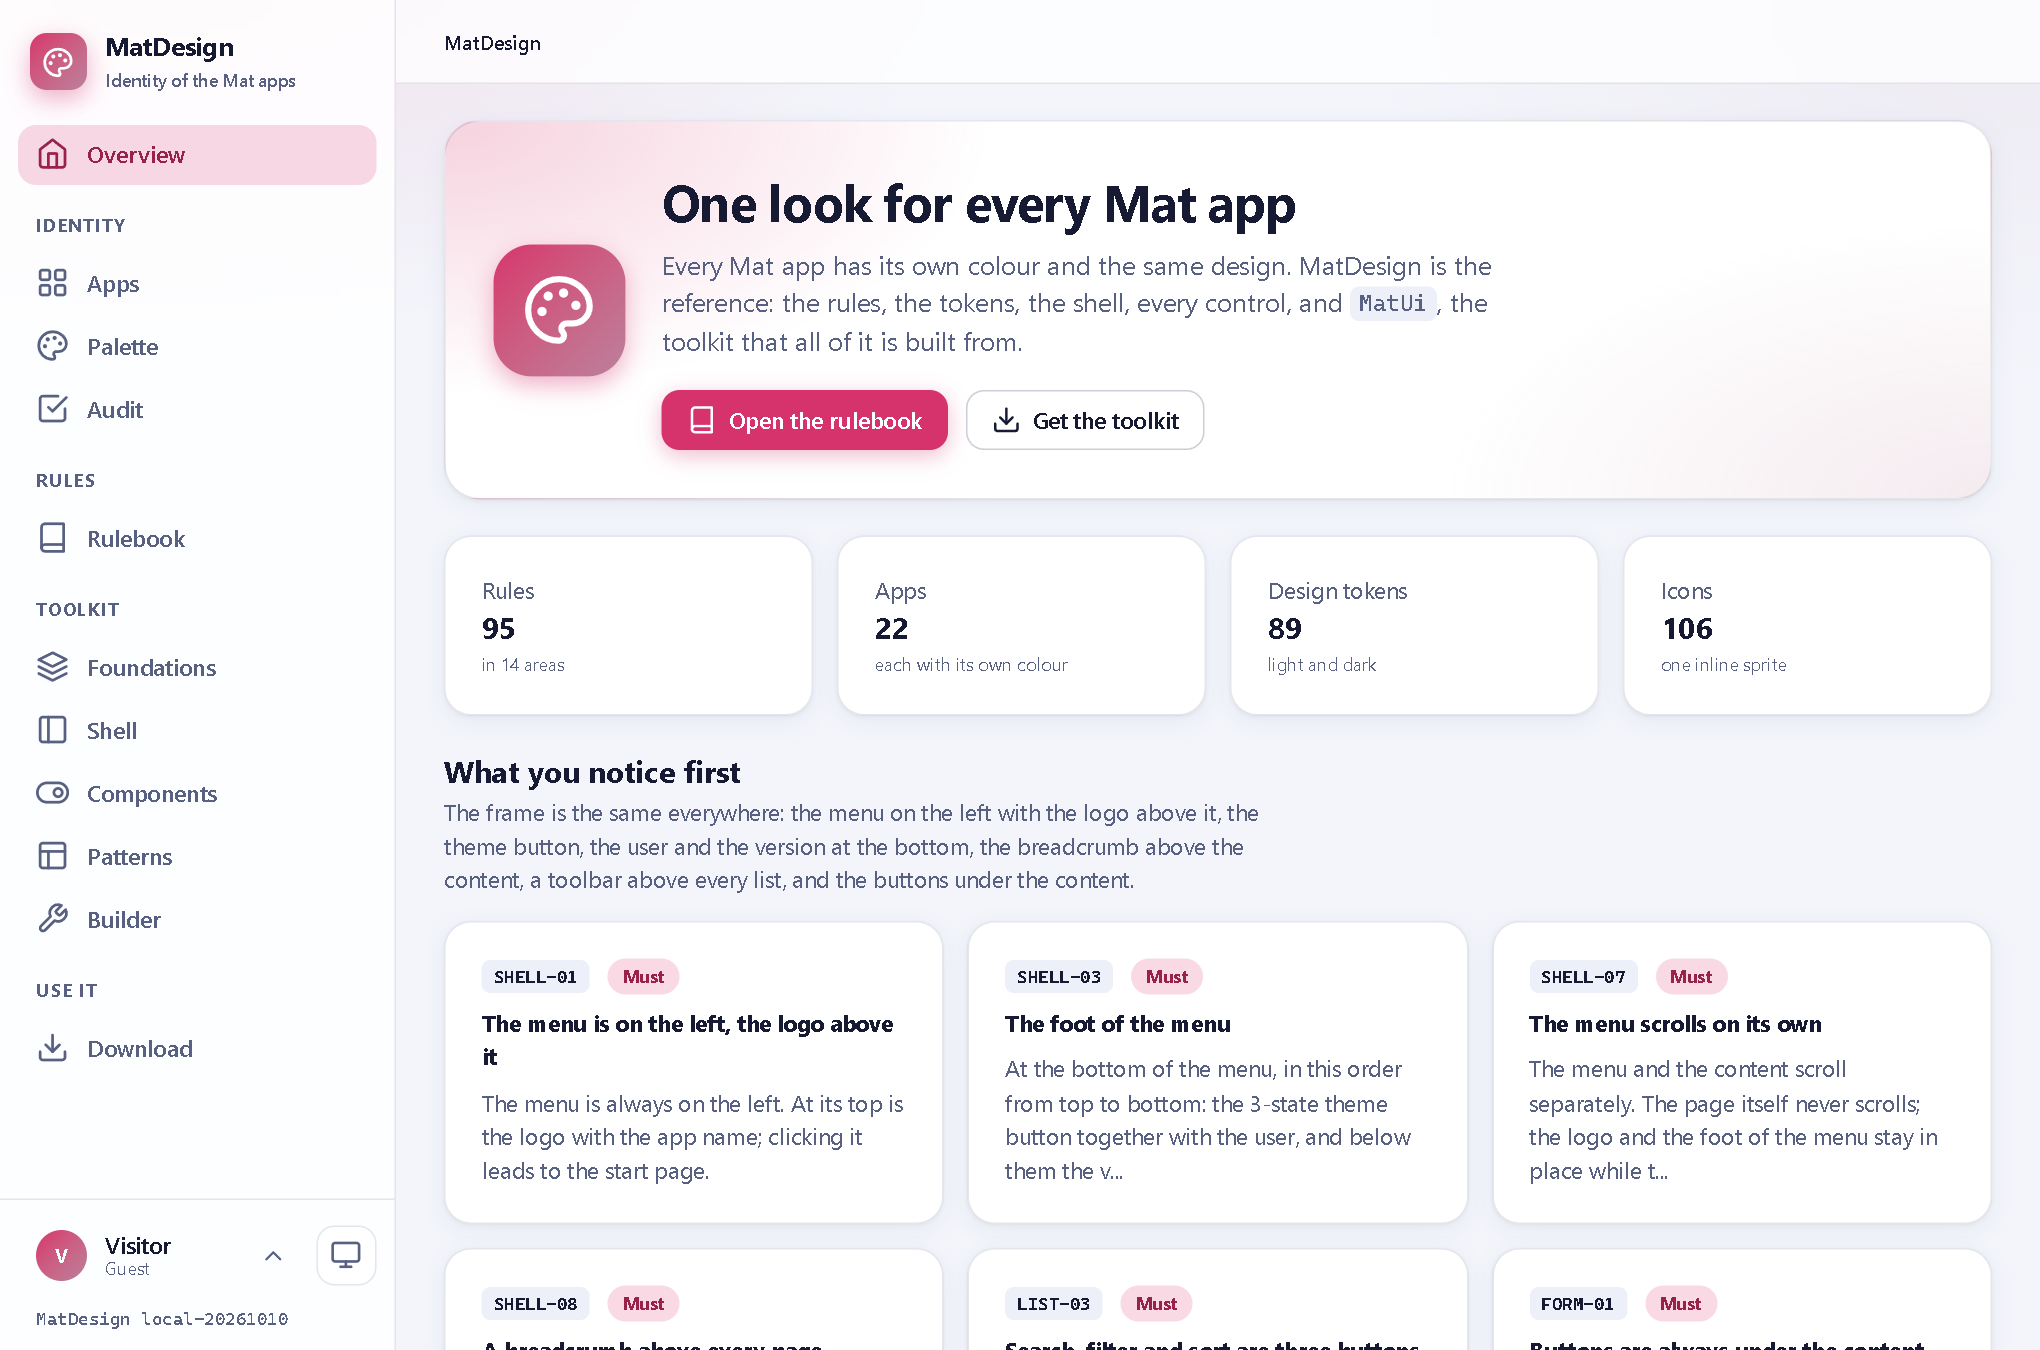
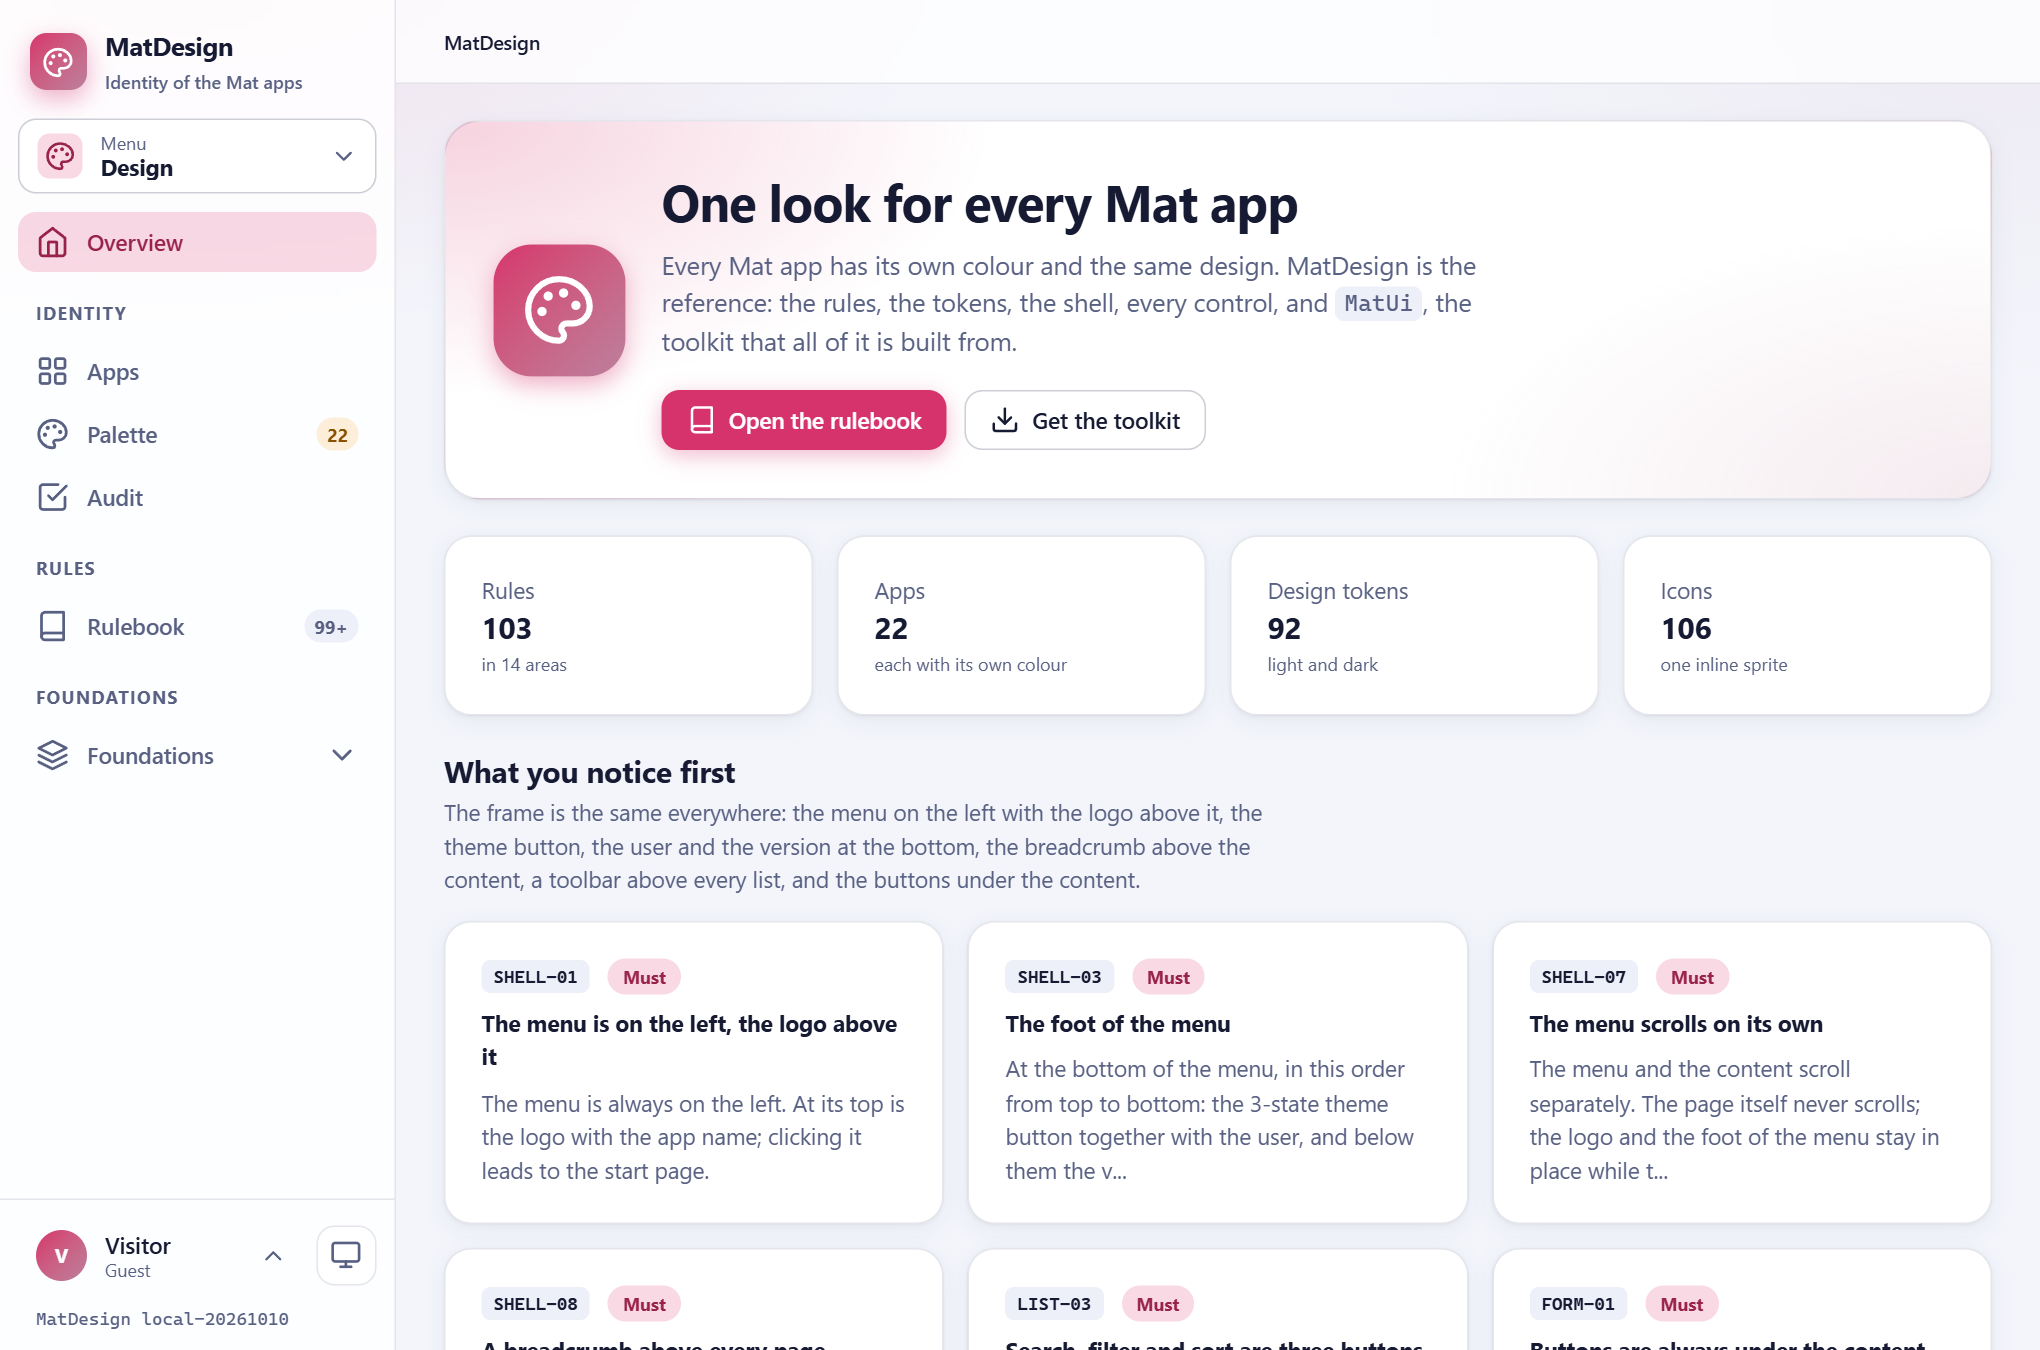
Document the framework: pickers, layout, utilities, what is left out on purpose
README, CLAUDE.md, the architecture notes and the adoption guide describe the ten stylesheet parts, the pickers (and how
the MatCMS select and date pickers map onto them), the layout system and the utilities, and list what a general kit has
and this one deliberately does not (navbar, carousel, hero, a separate off-canvas, Sass theming). A script that merges
text into a file must use a replacer function: in a plain replacement string $$ becomes $.

The overview lists Layout and Utilities; new screenshots of the period picker, the colour picker, a picker on a phone and
the grid.

diff --git a/CLAUDE.md b/CLAUDE.md
@@ -25,7 +25,8 @@ Read [docs/ARCHITECTURE.md](docs/ARCHITECTURE.md) before changing the design and
 - **Release stack:** `docker-compose.yml`, image `ghcr.io/real-ttx/matdesign`, one service, no volume: keep it that simple.
 - **Real tests are end to end against the container:** Playwright with the installed Edge (see the `screenshots` skill), then look at the screenshot instead of trusting
   computed styles. `MSYS_NO_PATHCONV=1` for Git Bash arguments that start with `/`. Shell strings with backticks, apostrophes or `$$` get mangled: write files with
-  the editor tools, not with `node -e` or heredocs.
+  the editor tools, not with `node -e` or heredocs. A script that merges text into a file must use a replacer function (`text.replace(a, () => b)`): in a plain replacement string
+  `$$` becomes `$` (it turned `$$(...)` of the script into `$(...)` once).
 - **Icon sprite:** `node tools/icons.js` rebuilds `src/MatUi/wwwroot/img/matui-icons.svg` from `tools/icons.base.json` plus the extras in the script (CI fails when it is stale).
 - **Audit:** `node tools/audit.js [folder with the repositories]` rewrites `src/MatDesign.Web/Data/audit.json`, a snapshot of how close the other apps are to the rules.
 
@@ -43,10 +44,11 @@ src/MatDesign.Core         no web types
 src/MatDesign.Web          the site
   Program.cs                 /ui/* (the toolkit as files, bundle, archive), /api/*, /health, Razor Pages
   Services/                  ToolkitFiles, Ui (icons, logo, swatch), ShellModel, Navigation, Crumbs, ListModels (toolbar, pager, query),
-                             ComponentCatalog (+ FormComponents), PatternCatalog, ShellSkeleton, AuditData (Navigation: NavSet > NavGroup > NavItem with NavBadge and children)
-  Pages/                     Index, Rules, Identity, Foundations, Shell, Components, Patterns, Builder, Download, Preview (the sample app)
+                             ComponentCatalog (+ FormComponents, PickerComponents, ContentComponents, LayoutComponents; CatalogSection = what a page shows),
+                             PatternCatalog, ShellSkeleton, AuditData (Navigation: NavSet > NavGroup > NavItem with NavBadge and children)
+  Pages/                     Index, Rules, Identity, Foundations, Shell, Components, Layout, Utilities, Patterns, Builder, Download, Preview (the sample app)
   Pages/Shared/              _Layout (the shell), _Bare (no menu), _Menu (switcher, items, badges, submenus), _MenuSwitchPopup, _Head, _Toolbar, _Pager,
-                             _Toc + _Component (the components page), _AccentSwatches, _ContrastCard, _FoundationsTabs
+                             _DocSection + _Toc + _Component (the components, layout and utilities pages), _AccentSwatches, _ContrastCard, _FoundationsTabs
   wwwroot/css/site.css       the few documentation-only styles (doc-*); wwwroot/js/doc.js the "Try it" buttons
 tests/MatDesign.Tests      unit tests + the site in memory
 tests/e2e                  run.js: the behaviour in a real browser against a running site
@@ -68,6 +70,11 @@ checks it in one commit. Rule text that cites another rule must cite one that ex
 - The dark set is written twice (`:root[data-theme="dark"]` and the system media query) and the two must stay identical. `data-app` and `data-theme` belong on `<html>`.
 - Order inside a button row, a list block and the toolbar is enforced by CSS (`order`), not by the author. A selector in a later part must be more specific than a base class it
   overrides (the bundle puts `controls` after `shell`).
+- Pickers (`FORM-15`): a wrapper `mat-picker[data-picker="select|date|daterange|time|timerange|colour"]` around the real input `mat-picker__input`, which posts one value in a fixed
+  format (`2026-10-10`, `..` for a range, `09:30`, `#b4235f`); the script adds the button and the panel (`position: fixed`, full screen with an X on a phone). Texts in English and German
+  (`PK_TEXT`: both languages must have every key, a test checks). A hidden element that has a `display` in the CSS needs its own `[hidden]` rule (tests list them).
+- Layout and utilities: mobile first with `sm` 600, `md` 900, `lg` 1200 px; no `!important`; values from the tokens; the grid spans by `grid-column-end`. An example in the catalogue uses
+  toolkit classes only, never `doc-*` (it is copied into other apps).
 - Icons come from the sprite (`Ui.Icon("name")` / `#mat-i-name`); a name that is not in the sprite fails a test. No emoji, no icon font, no CDN.
 - Nothing is loaded from another site; apps copy the toolkit (`CODE-03`).
 
@@ -76,7 +83,8 @@ checks it in one commit. Rule text that cites another rule must cite one that ex
   its three dialogs. A page that is not a list of items (a few fixed facts) needs no toolbar (see `LIST-02`).
 - A list: toolbar, table or gallery, pager directly under it, actions below left-aligned. CRUD = list + separate page. Buttons under the content, positive to negative.
 - Components and patterns are **data** (`ComponentCatalog`, `PatternCatalog`): add an entry, not a page. An example is a raw string: it is rendered live and shown as source from
-  the same string; the tests parse all of them (classes that exist, icons that exist, `data-label` on every `td`, typed buttons, unique ids, balanced tags).
+  the same string; the tests parse all of them (classes that exist, icons that exist, `data-label` on every `td`, typed buttons, unique ids, balanced tags). The layout classes and the
+  utilities are documented the same way (the groups Layout and Utilities); a `CatalogSection` decides which page shows which groups, so a new group needs a section.
 - Numbers and dates use the invariant culture (the site is English; a developer PC and a container must show the same text).
 - **Mobile matters:** check 390 px for every new page; secondary table columns get `mat-hide-sm`; on a phone dialogs are full screen with the X at the top right.
 - After a change to CSS, JS or cshtml the container must be rebuilt.

diff --git a/docs/ARCHITECTURE.md b/docs/ARCHITECTURE.md
@@ -61,10 +61,38 @@ validation summary. The catalogue of the form components is its own file (`FormC
 forms read like a manual). The script adds only what CSS cannot do: the filled part and the output of a range, a counter, the eye of a password, the names in a drop zone, an indeterminate check and the
 summary of the errors of a form; validation itself stays the browser's (`required`, `type`, `pattern`) with the messages of `data-msg-*`.
 
-### Long pages and one page for the components
+### Pickers
+
+A picker is a field whose value is chosen in a panel: a select with pictures, descriptions and tags, a date or a period, a time or a time range, a colour (`FORM-15`). They are a part of their own
+(`matui.pickers.css`) and one section of `matui.js`; the select and the calendar were taken over from MatCMS, the time and the colour were made in the same style. The markup is a wrapper
+`mat-picker[data-picker]` around the real input (`mat-picker__input`), which is what is validated, posted and reset. It holds the value in a **fixed format** (`2026-10-10`,
+`2026-10-10..2026-10-14~2`, `09:30`, `09:00..17:30`, `#b4235f`, the keys of the options), whatever the language of the page; the script adds the button that shows it in the language of the
+page (`Intl`) and the panel. The panel is `position: fixed` next to the button (below, above, or covering it when neither side has room) and full screen with an X on a phone, like every dialog.
+It lives inside the wrapper, so a picker in a dialog is not cut off by it, and Escape closes the picker first and the dialog second. The real input is invisible but lies over the button, so a
+browser message points at the right place, and whoever focuses it (a label, the validation) lands on the button. The texts are English and German (`data-pk-*` on `html` changes them; a test checks that
+both languages have every text).
+
+### Layout and utilities
+
+`matui.layout.css` is the last part before the apps: containers, a grid of twelve columns (`mat-cols`, `mat-col-N`, with `sm`, `md` and `lg` variants from 600, 900 and 1200 px, mobile first) and
+utility classes for spacing, display, flex, text, colour, borders and sizing. They come after every component, so a utility wins over a component's value of the same specificity, and none of them uses
+`!important`; every value is a token. A child of the grid spans twelve columns by its **end line** (`grid-column-end`): the shorthand would make the start line a span as well, and then no
+`mat-col-N` could win (a test pins this).
+
+The pages Layout and Utilities are made of the same catalogue as the components (the groups `Layout` and `Utilities` of `ComponentCatalog`), so everything that is tested for a component example is
+tested for them. A `CatalogSection` says which groups a page shows, and one partial (`_DocSection`) draws the three pages. An example uses only classes of the toolkit, because it is copied into other
+apps: the demo cells of the layout pages are made of the very utilities that are shown.
+
+### What is deliberately not in the toolkit
+
+Compared with a general kit such as Bootstrap there is **no navbar** (the shell replaces it, `SHELL-01`), **no carousel**, **no jumbotron or hero** (an app is not a landing page), **no off-canvas as a
+component of its own** (a dialog from the side, `mat-dialog--end`, does it), and **no theming with Sass variables** (the tokens are custom properties and an app sets one colour). What an app needs
+beyond that is a component of its own with the app's prefix (`CODE-04`).
+
+### Long pages and one page per section
 
 The components are not a list of pages to click through but one page, grouped, with an index beside it (`mat-with-toc`, `mat-toc`): a sticky column from 1100 px, a "Jump to" dialog below that
-(full screen on a phone). `data-scrollspy` marks the link of the section at the top; it computes per index from the position of the sections, so the index beside the content and the one in the dialog
+(full screen on a phone); the layout and the utilities are two more pages of the same kind. `data-scrollspy` marks the link of the section at the top; it computes per index from the position of the sections, so the index beside the content and the one in the dialog
 agree and two indexes on one page do not disturb each other. Because every example of every component is on the same page, **all ids share one page**: a test checks that no id appears twice and
 that every `#link` leads to a section that exists.
 

diff --git a/README.md b/README.md
@@ -8,7 +8,8 @@
 
 Every Mat app has its own colour and the same design. MatDesign is the reference for that design: a website with the **rulebook**
 (every rule about how an app looks and behaves, with a stable ID such as `SHELL-03`), the **foundations** (colour, type, space, motion, icons),
-the **shell** (menu left, breadcrumb above the content), **24 components** with live examples and the markup to copy, the **page patterns**,
+the **shell** (menu left with submenus, badges and a switcher between menus, breadcrumb above the content), **49 components** with live examples and the markup to copy (forms, pickers, lists,
+dialogs, ...), a **layout system** (twelve columns, breakpoints) and **utility classes**, the **page patterns**,
 a **builder** that checks an accent colour, and **MatUi**, the toolkit itself: four files you copy into an app.
 
 </div>
@@ -45,6 +46,14 @@ and checked for WCAG AA, for every app, in light and dark.
 |---|---|---|
 | ![The palette](docs/images/palette.png) | ![The drawer with the logo, the user, the theme button and the version](docs/images/phone-menu.png) | ![The filter dialog on a phone](docs/images/phone-dialog.png) |
 
+| A period with flexible dates | A colour with its contrast | On a phone: a picker is a full-screen sheet |
+|---|---|---|
+| ![The period picker](docs/images/picker-period.png) | ![The colour picker](docs/images/picker-colour.png) | ![The period picker on a phone](docs/images/phone-picker.png) |
+
+| The grid of twelve columns |
+|---|
+| ![The layout page with the grid of twelve columns](docs/images/layout-grid.png) |
+
 ## What is on the site
 
 | Section | What you find |
@@ -53,7 +62,9 @@ and checked for WCAG AA, for every app, in light and dark.
 | **Rules** | The rulebook, searchable, with a page per rule. |
 | **Foundations** | Colour (light and dark side by side), type, spacing and radii, motion and layers, the icon sprite, and every design token, read from the CSS. |
 | **Shell** | Anatomy of the frame around every page (switcher, items with badges and submenus, foot), a live sample with an administration behind the switcher, the HTML skeleton. |
-| **Components** | Every control on **one page** with an index beside it that marks the section in view (and jumps there on one click): buttons, **forms** (input types and sizes, selects, checks and radios, range, input groups, search/password/counter/files, floating labels, layouts, validation with a summary), toolbar, table, pagination, menu items with badges and submenus, the menu switcher, dialogs, alerts, toasts … each live, with the markup to copy and the rules it follows. |
+| **Components** | Every control on **one page** with an index beside it that marks the section in view (and jumps there on one click): buttons, button groups, dropdowns, **forms** (input types and sizes, selects, checks and radios, range, input groups, search/password/counter/files, floating labels, layouts, validation with a summary), **pickers** (select with pictures, descriptions and tags, date and period, time and time range, colour), toolbar, table (variants, sortable, selectable rows), pagination, cards, list group, accordion, avatars, stats and timeline, menu items with badges and submenus, the menu switcher, dialogs (also from the side), popover, alerts, toasts, spinners … each live, with the markup to copy and the rules it follows. |
+| **Layout** | Breakpoints and containers, the grid of twelve columns (spans, responsive classes, offsets, order, nesting), stack, row and auto grid. |
+| **Utilities** | One class, one property: spacing, display and visibility by width, flex, text, colour and tints, borders, radius, shadow, sizing, position and overflow. |
 | **Patterns** | The page types (list, gallery, edit, settings, dashboard, sign-in) in real frames, on a desktop and on a phone, in the accent of any app. |
 | **Builder** | Try an accent: what the toolkit derives from it, contrast in both modes, the nearest app, the real screens in that colour, the snippet. |
 | **Download** | MatUi as an archive or file by file, how to use it, and the design system as JSON (`/api/rules`, `/api/tokens` …). |

diff --git a/docs/ADOPTING.md b/docs/ADOPTING.md
@@ -74,6 +74,28 @@ Saving the theme: `data-theme-save-url` on the theme button posts the choice (`t
 - The right control for the value (`FORM-12`): the type of the value (`email`, `tel`, `number`, `date`) with `autocomplete` and `inputmode`; radios up to five choices, a select above; a switch applies at once, a check is saved.
   A form with errors shows a **summary** at the top with a link to every field (`data-validation-summary`, `FORM-03`). Layouts: columns, label beside the field on a wide screen, one line, sections (`FORM-14`).
 - Every table cell has `data-label`: on a phone the rows become cards (`TABLE-02`).
+- A value that a native control cannot show well is chosen in a **picker** (`FORM-15`): an option with a picture, a description and tags, a date or a period, a time or a time range, a colour.
+  The markup is a wrapper around the real input, which posts one value in a fixed format (`2026-10-10`, `2026-10-10..2026-10-14`, `09:30`, `09:00..17:30`, `#b4235f`, the key of an option);
+  the script draws the button and the panel, which is full screen with an X on a phone. The MatCMS `richselect` and date pickers map onto `data-picker="select"` (with `data-multiple` for
+  `multiselect`) and `data-picker="daterange"`:
+
+  ```html
+  <div class="mat-field">
+    <label class="mat-label" for="due">Due date</label>
+    <div class="mat-picker" data-picker="date" data-clearable data-min="2026-10-05">
+      <input class="mat-picker__input" id="due" name="due" value="2026-10-10" />
+    </div>
+  </div>
+  ```
+
+## 4a. Layout and utilities
+
+- **Containers and the grid:** a page inside the shell is `mat-page`; one without it (sign-in, a shared link) is `mat-container`. For a layout you have decided use the twelve columns
+  (`mat-cols` with `mat-col-12 mat-col-md-6 mat-col-lg-3`); for cards that fill the row `mat-grid`; for the small cases `mat-stack` and `mat-row`. The breakpoints are the same in every app:
+  `sm` 600, `md` 900, `lg` 1200 px, mobile first. See the **Layout** page.
+- **Utilities** set one property from the scales of the toolkit: spacing on the 4 px scale (`mat-mt-4`, `mat-px-3`, `mat-gap-2`), display and visibility (`mat-d-none mat-d-md-block`), flex,
+  text, colour and tints, borders, radius, shadow, sizing. Use them on elements of your own pages, not to repair a component, and prefer `mat-stack` to a margin on every child. See the
+  **Utilities** page.
 
 ## 5. Dialogs (`DIALOG-*`)
 
